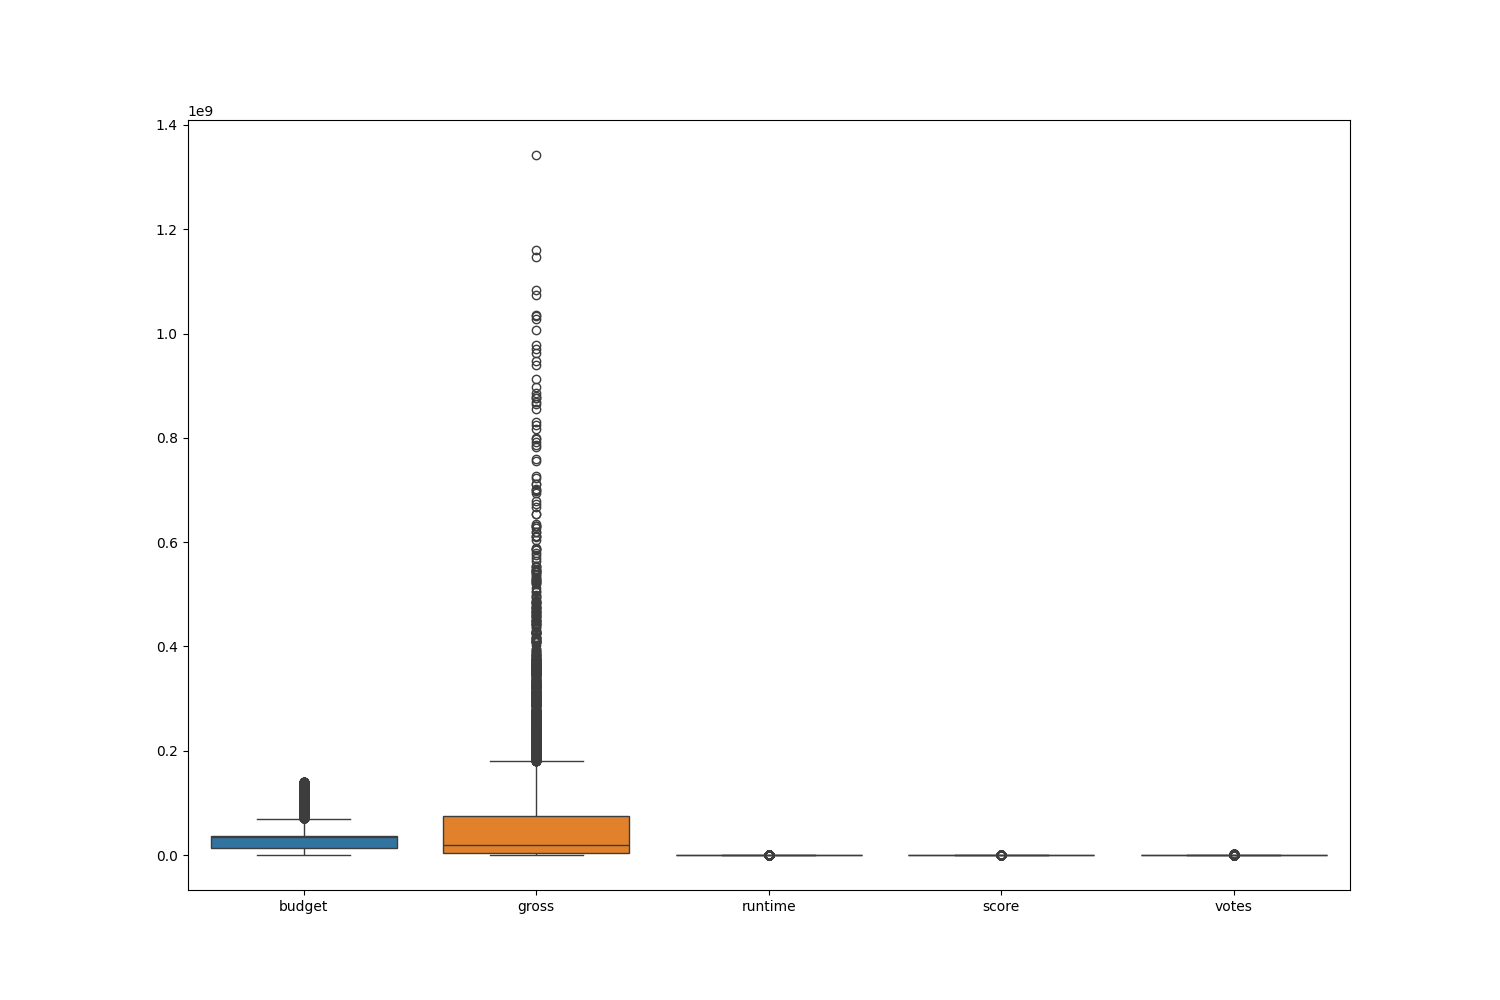
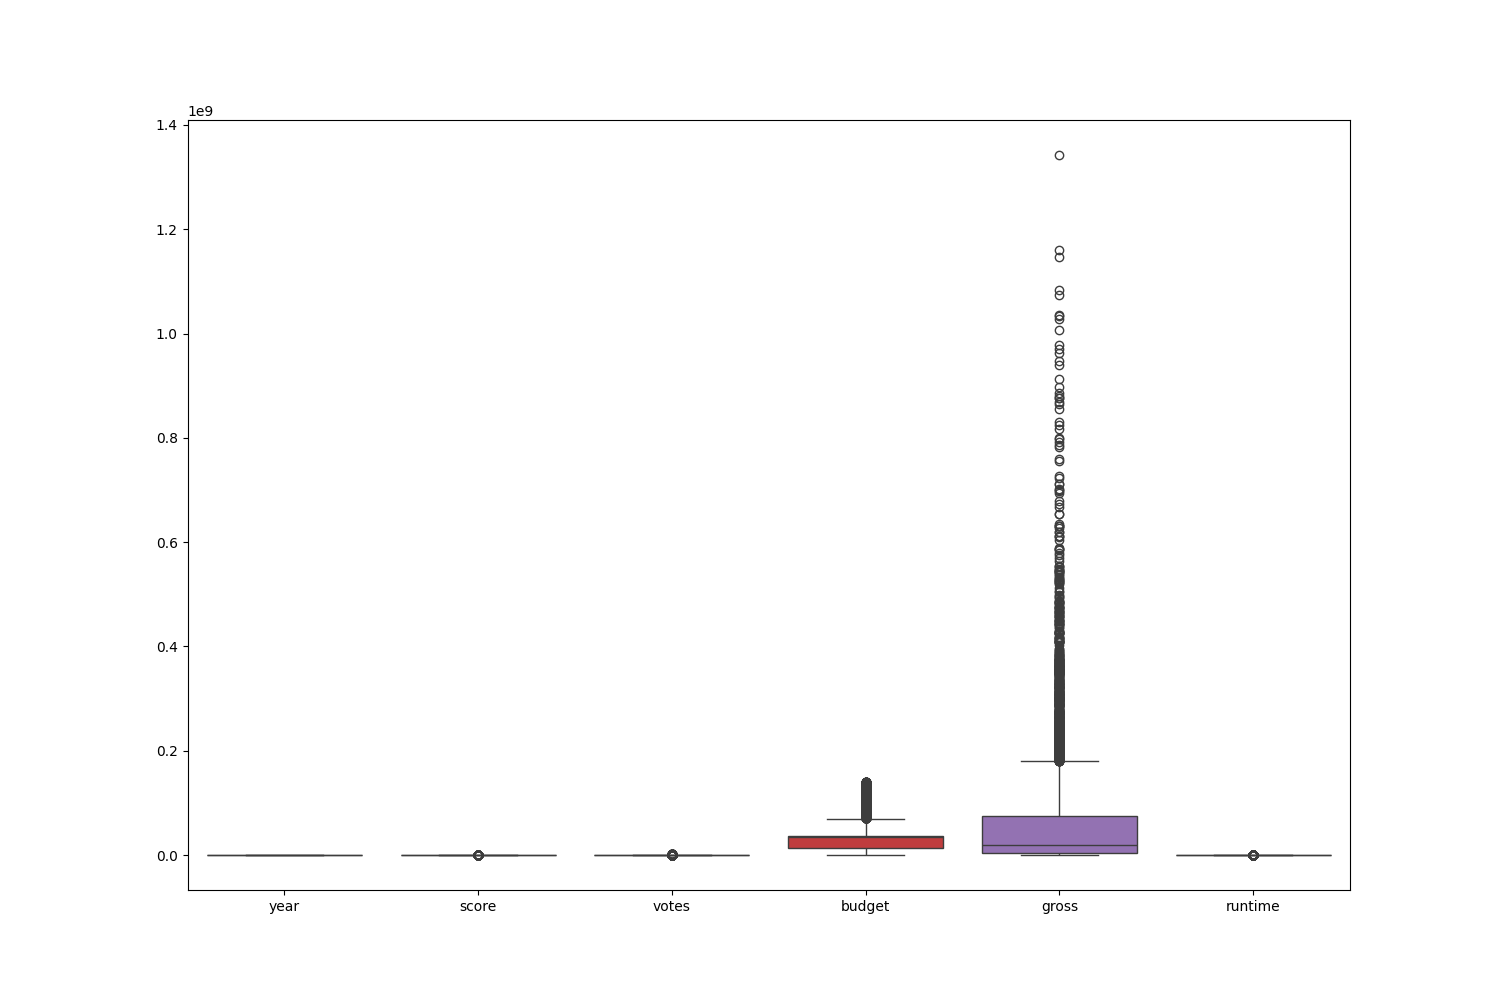
visualize dataset

diff --git a/eda.py b/eda.py
@@ -12,25 +12,29 @@ df = pd.read_csv('movies_cleaned.csv')
 print(df.describe())
 print(df['genre'].value_counts())
 print(df['release_country'].value_counts())
+print(df['rating'].value_counts())
 
 # Data Distribution
 # Histograms for numerical columns
-df.hist(bins=30, figsize=(15, 10))
+numerical_columns = ['year', 'score', 'votes', 'budget', 'gross', 'runtime']
+df[numerical_columns].hist(bins=30, figsize=(15, 10))
 plt.tight_layout()
 plt.savefig('histograms.png')  # Save the plot instead of showing it
 plt.close()
 
 # Box plots for numerical columns
 plt.figure(figsize=(15, 10))
-sns.boxplot(data=df[['budget', 'gross', 'runtime', 'score', 'votes']])
+sns.boxplot(data=df[numerical_columns])
 plt.savefig('boxplots.png')  # Save the plot instead of showing it
 plt.close()
 
 # Bar plots for categorical columns
-plt.figure(figsize=(15, 10))
-sns.countplot(y='genre', data=df, order=df['genre'].value_counts().index)
-plt.savefig('barplots.png')  # Save the plot instead of showing it
-plt.close()
+categorical_columns = ['name', 'rating', 'genre', 'director', 'writer', 'star', 'country', 'company', 'release_country']
+for column in categorical_columns:
+    plt.figure(figsize=(15, 10))
+    sns.countplot(y=column, data=df, order=df[column].value_counts().index)
+    plt.savefig(f'barplot_{column}.png')  # Save the plot instead of showing it
+    plt.close()
 
 # Correlation Analysis
 # Select only numeric columns for correlation matrix
